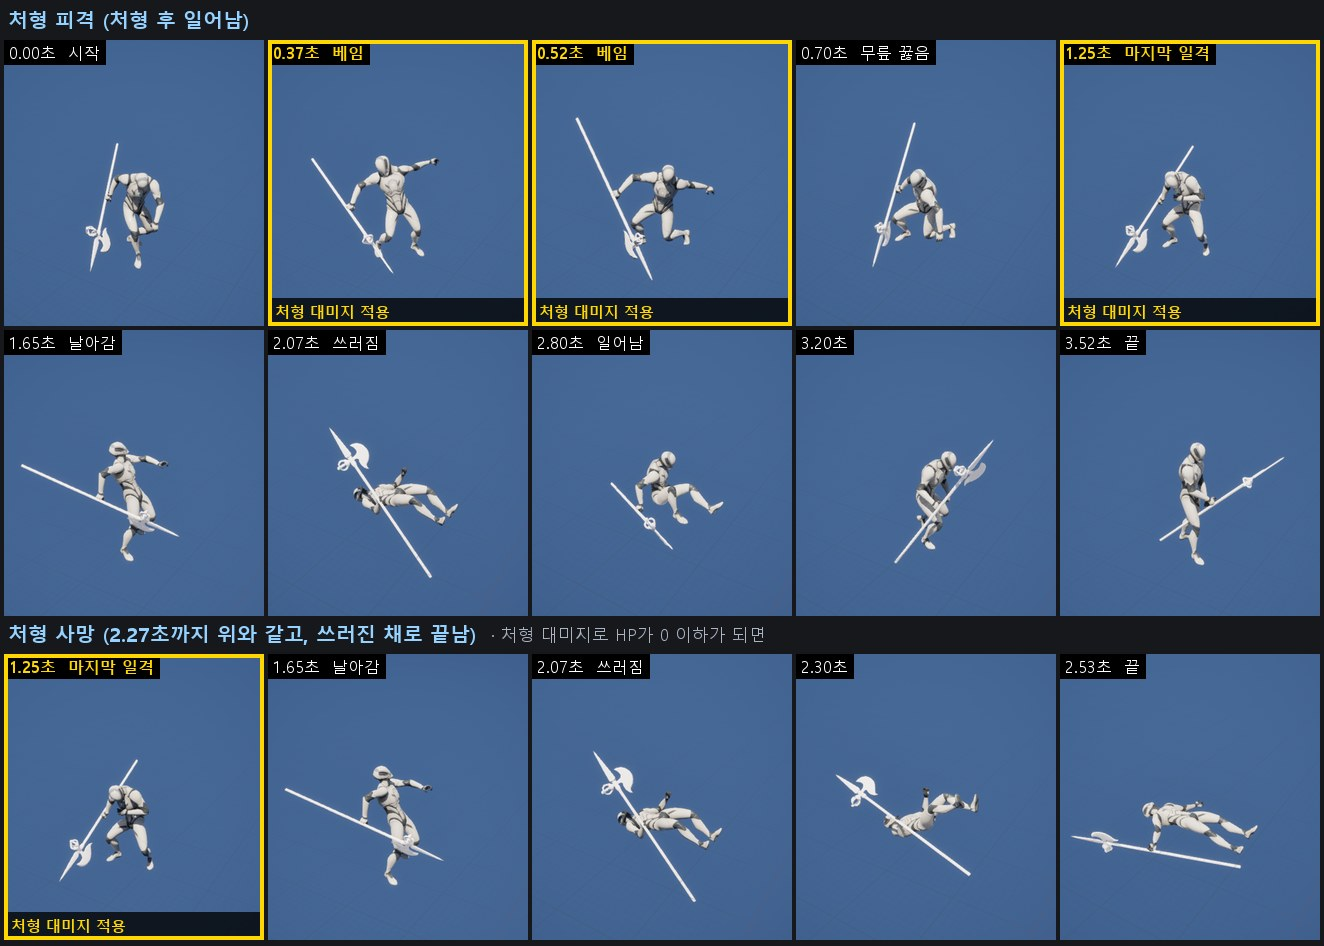
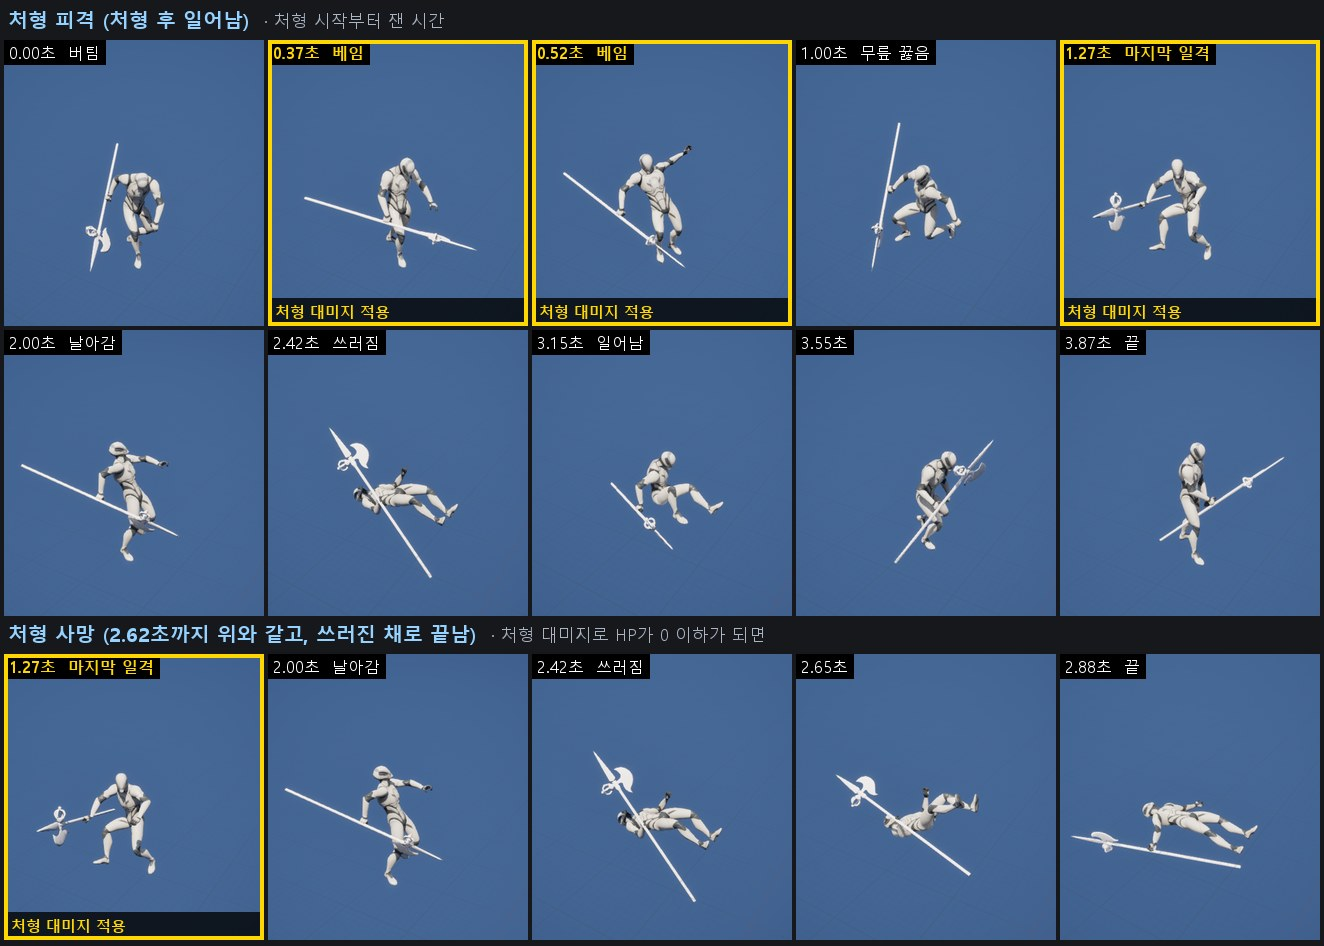
폴리싱 26: 처형 피격을 첫 베기에 맞춰 프레임 단위로 동기화 (플레이어 사양 '처형', 보스 모션 처형 피격 그림)
- 기획서
  - 처형 피격 모션(Samurai Executed)은 처형 모션의 첫 베기(0.35초)에 맞는 순간부터 시작하도록
    만들어진 짝 모션입니다. 처형과 동시에 재생하면 보스가 0.35초 일찍 반응합니다(맞기 전에
    물러나고, 칼이 꽂혀 있는 동안 날아감).
  - 플레이어 사양 '처형': 플레이어는 첫 베기 전까지 보스 정면에 붙고, 보스는 그로기 자세로
    버티다가 첫 베기를 맞는 순간부터 처형 피격 모션을 재생합니다.
  - 보스 모션 처형 피격 그림: 처형 시작부터 잰 시간으로 칸을 다시 골라 만들었습니다.
  - 애니메이션 조사: 두 모션의 시간 차이(0.35초), 맞물리는 순간(첫 베기, 발차기, 찌르기,
    칼 뽑기), 배치(원점 간격 약 1.1m)를 적고, 할버드 조사의 처형 피격·처형 사망 시각을 처형
    피격 기준으로 고쳤습니다.
- 구현
  - AM_Boss_Executed·AM_Boss_ExecutedDeath: 앞에 첫 베기 시각(0.35초)만큼 첫 프레임에 머무는
    구간을 두고, 그로기 모션에서 그 시간 동안 블렌드해 들어갑니다. 두 몽타주가 처형을 시작한
    프레임에 함께 시작하므로 재생 위치가 늘 같습니다.
  - AM_Player_Execute: Motion Warping 구간을 0 ~ 0.25초에서 첫 베기까지(0 ~ 0.35초)로 늘렸습니다.
  - DA_Player.ExecutionDistance: 164 → 70cm (첫 베기 순간 두 캡슐 중심 사이, 두 모션의 원래
    배치에서 잼).
  - 코드는 주석만 고쳤습니다. 구현 계획서의 '처형' 결정, 데이터 위치표, 확인 기록, 위험 요소를
    고쳤습니다.
- PIE 확인(정면 2.5m, 측면 60° 2.9m, 0.75m, 평타 직후): 두 몽타주 재생 위치 차이 0, 첫 베기 때
  간격 70cm·마주 봄. 첫 베기의 칼과 몸통 뼈대 사이 21.5 → 6.3cm, 찌른 채 버티는 동안
  (1.30 ~ 1.92초) 평균 45 → 4.4cm, 최대 120 → 11.5cm. 처형 사망(첫 베기, 마지막 일격)은 같은
  재생 위치에서 처형 사망 모션으로 이어집니다.

diff --git a/Source/Ag/AbilitySystem/Abilities/AgAbility_Execution.h b/Source/Ag/AbilitySystem/Abilities/AgAbility_Execution.h
@@ -11,10 +11,11 @@ class AAgPlayerCharacter;
 
 /**
  * 처형 (플레이어 사양 '처형'): a finishing move on a groggy boss within the 처형 타겟팅 범위, once per groggy.
- * The boss turns to the player and plays its 처형 피격 motion while the player closes in to the boss's front with
- * Motion Warping. The player is invincible until the execution ends or is cancelled. Each strike of the motion (the two
- * slashes and the final blow, one Execution hit each) applies its damage without hitstop, and the recovery (후딜) starts
- * after the final blow.
+ * The boss turns to the player and starts its 처형 피격 montage in the same frame as the execution montage; that montage
+ * waits on its first frame until the first slash, so the two motions stay in step frame by frame. By the first slash the
+ * player closes in to the boss's front with Motion Warping. The player is invincible until the execution ends or is
+ * cancelled. Each strike of the motion (the two slashes and the final blow, one Execution hit each) applies its damage
+ * without hitstop, and the recovery (후딜) starts after the final blow.
  */
 UCLASS()
 class UAgAbility_Execution : public UAgGameplayAbility

diff --git a/Source/Ag/AbilitySystem/Abilities/AgAbility_Execution.cpp b/Source/Ag/AbilitySystem/Abilities/AgAbility_Execution.cpp
@@ -61,14 +61,15 @@ void UAgAbility_Execution::ActivateAbility(const FGameplayAbilitySpecHandle Hand
 	bInvincible = true;
 	GetAbilitySystemComponentFromActorInfo()->AddLooseGameplayTag(AgGameplayTags::State_Invincible);
 
-	// The boss turns to the player and plays its 처형 피격 motion.
+	// The boss turns to the player and starts its 처형 피격 montage in this same frame, so both montages share one timeline.
 	FGameplayEventData Payload;
 	Payload.EventTag = AgGameplayTags::Event_Executed;
 	Payload.Instigator = Player;
 	Payload.Target = Boss;
 	UAbilitySystemBlueprintLibrary::SendGameplayEventToActor(Boss, AgGameplayTags::Event_Executed, Payload);
 
-	// The player moves to the boss's front, to the gap where the two motions line up. No stop distance applies.
+	// By the first slash (the end of the warp window) the player stands at the boss's front, at the gap where the two
+	// motions line up. No stop distance applies.
 	Player->StartApproach(Boss, Data->ExecutionDistance, 0.f, 0.f, /*bFaceTarget*/ true, /*bExactGap*/ true);
 
 	UAbilityTask_WaitGameplayEvent* StrikeTask = UAbilityTask_WaitGameplayEvent::WaitGameplayEvent(this, AgGameplayTags::Event_ExecutionBlow);

diff --git a/Source/Ag/Data/AgCharacterData.h b/Source/Ag/Data/AgCharacterData.h
@@ -263,8 +263,8 @@ public:
 	FAgPlayerAttack Execution;
 
 	/**
-	 * Gap (capsule centers) the player closes to in front of the boss so the two execution motions line up.
-	 * The spec gives no number; set by eye in the editor.
+	 * Gap (capsule centers) the player closes to in front of the boss by the execution's first slash, where the two
+	 * execution motions line up. The spec gives no number; measured from the two motions' authored placement.
 	 */
 	UPROPERTY(EditDefaultsOnly, Category = "Execution", meta = (Units = "cm", ClampMin = 0))
 	float ExecutionDistance = 0.f;
@@ -524,7 +524,10 @@ public:
 	UPROPERTY(EditDefaultsOnly, Category = "Assets|Montages")
 	TObjectPtr<UAnimMontage> GroggyMontage;
 
-	/** 처형 피격: the motion paired with the player's execution; the boss stands up at its end. */
+	/**
+	 * 처형 피격: the motion paired with the player's execution; the boss stands up at its end. It waits on its first frame
+	 * until the execution's first slash, so it starts in the same frame as the execution montage and stays in step.
+	 */
 	UPROPERTY(EditDefaultsOnly, Category = "Assets|Montages")
 	TObjectPtr<UAnimMontage> ExecutedMontage;
 

diff --git a/Docs/Program/마일스톤1 구현 계획.md b/Docs/Program/마일스톤1 구현 계획.md
@@ -68,7 +68,7 @@
 | 모션을 따르는 구간 | 판정 구간(몇 번째 타인지 포함), 처형 타격(베기 2번, 마지막 일격), 다운 무적 시작, A3 돌진 시작·자세 유지, A6 검기 발사는 몽타주 노티파이로 표시합니다. 판정 구간 외의 시점은 게임플레이 이벤트를 보내는 노티파이 하나로 표시하고, 이벤트 태그로 구분합니다. 연속 공격의 후딜 시작은 마지막 판정 구간의 끝으로 정합니다. | 시점마다 노티파이 클래스를 만들지 않고, 어빌리티가 이벤트를 기다립니다. |
 | 기획서에 초로 적힌 구간 | 회피 무적·극한 회피 구간·후딜 시작, 붉은 섬광, 예고 섬광, 회전 정지 같은 수치는 캐릭터 데이터에 두고, 코드가 몽타주 재생 위치로 판정합니다. 붉은 섬광, 예고 섬광, 회전 정지는 판정 구간 노티파이 위치(A6은 검기 발사 노티파이, A4 예고 섬광은 체공 시간)에서 거꾸로 계산합니다. 패리 구간, 회피 반격 기회, 쿨다운, 그로기 지속 시간처럼 히트스톱 중에도 흐르는 시간은 타이머로 셉니다. | 히트스톱으로 몽타주가 멈추면 구간도 함께 멈추고, 보스의 재생 속도 배율도 자동으로 반영됩니다. |
 | 공격 보정 | Motion Warping을 씁니다. 타겟팅 범위 안의 보스를 TargetingSystem으로 찾아, 플레이어 사양 '공격 중 이동'의 접근 목표를 선딜 동안 매 프레임 갱신하고 판정 구간 시작에 고정합니다. | |
-| 처형 | Motion Warping으로 보스 정면에 붙습니다. 두 모션이 맞물리는 간격은 두 모션의 원래 배치를 모션 데이터에서 재어 데이터에 둡니다. 처형 피격 중에는 보스 캡슐이 플레이어를 막지 않습니다. | 순간이동하지 않습니다. 두 모션은 캡슐 반지름보다 가깝게 붙습니다. |
+| 처형 | 처형 피격·처형 사망 몽타주는 처형 몽타주의 첫 베기 시각만큼 첫 프레임에 머문 뒤 모션을 시작하고, 그로기 모션에서 이 시간 동안 블렌드해 들어갑니다. 보스와 플레이어의 몽타주는 처형을 시작한 프레임에 함께 시작합니다. 플레이어는 첫 베기까지 Motion Warping으로 보스 정면, 두 모션이 맞물리는 간격에 붙습니다. 머무는 시간과 간격은 두 모션의 원래 배치를 모션 데이터에서 재어 정합니다(Samurai 애니메이션 조사 '처형'). 처형 피격 중에는 보스 캡슐이 플레이어를 막지 않습니다. | 처형 피격 모션은 첫 베기를 맞는 순간부터 시작하도록 만들어져 있습니다. 두 몽타주가 같은 프레임에 시작해 재생 위치가 늘 같으므로, 프레임 단위로 맞물립니다. 순간이동하지 않습니다. 두 모션은 캡슐 반지름보다 가깝게 붙습니다. |
 | 정지 간격 | 대상과의 간격이 정지 간격(플레이어 사양 '공격 중 이동', 보스 사양 '이동')이 되면 루트 모션의 전진량을 C++에서 잘라냅니다. | |
 | 보스 A1·A5 1타 접근 | 보스 사양 '이동'의 추가 접근을 Motion Warping으로 처리합니다. | |
 | A3 돌진 | 일정 속도의 루트 모션 소스로 움직입니다. 몽타주는 자세 유지 구간에서 멈춰 두고, 돌진하는 동안 캐릭터 간 충돌을 해제합니다. 돌진을 시작한 뒤로는 몽타주의 루트 모션을 무시하고, 벽에 막혔는지는 돌진 방향으로 실제 나아간 거리로 판단합니다(비스듬히 부딪혀 벽을 따라 미끄러져도 막힘). | 모션 자체의 이동만으로는 돌진 거리에 못 미칩니다. 몽타주가 루트 모션을 주는 동안에는 캐릭터 무브먼트가 루트 모션 소스를 쓰지 않고, 돌진 뒤 창을 거두는 동안 더 나아가지도 않아야 합니다. |
@@ -326,7 +326,9 @@
 | 할버드 애니메이션 조사 '보스 모션': 그로기, 처형 피격, 처형 사망 | `DA_Boss` (`AM_Boss_Groggy`, `AM_Boss_Executed`, `AM_Boss_ExecutedDeath`) | `GroggyMontage`, `ExecutedMontage`, `ExecutedDeathMontage` |
 | Samurai 애니메이션 조사 '가드·패리', '처형': 패리 모션의 후딜 시작, 처형 타격(베기 2번, 마지막 일격) | `AM_Player_Parry`, `AM_Player_Execute` | 게임플레이 이벤트 노티파이 |
 | 구현 값(기획서에 수치 없음): 리젠을 나눠 적용하는 간격 | `DA_CombatRules` | `RegenTickInterval` |
-| 구현 값(기획서에 수치 없음): 처형 두 모션이 맞물리는 간격 | `DA_Player` | `ExecutionDistance` |
+| 구현 값(기획서에 수치 없음): 처형 두 모션이 맞물리는 간격 (첫 베기 순간 두 캡슐 중심 사이) | `DA_Player` | `ExecutionDistance` |
+| Samurai 애니메이션 조사 '처형': 처형 피격이 처형보다 늦게 시작하는 시간 (처형의 첫 베기 시각) | `AM_Boss_Executed`, `AM_Boss_ExecutedDeath` | 첫 구간(첫 프레임에 머무는 구간)의 길이, 블렌드 인 시간 |
+| 같은 시간: 처형에서 보스 정면에 붙는 구간 | `AM_Player_Execute` | Motion Warping 구간 노티파이 |
 | 보스 사양 '페이즈', '2페이즈 변화': 2페이즈 HP 구간, 패턴 진행 속도, MOV | `DA_Boss` | `Phase2HPRatio`, `Phase2PatternSpeed`, `Phase2MOVMultiplier` |
 | 보스 사양 '공격 속성과 예고': 붉은 섬광·예고 섬광이 켜지는 시점 | `DA_Boss` | `UnblockableFlashLead`, `ParryFlashLead` |
 | 마일스톤1 계획 '아트 리소스': 붉은 섬광 이펙트와 색 | `GC_UnblockableFlash` | `Effect`, `AttachSocket`, `Color` |
@@ -394,14 +396,14 @@
 | - | - | - |
 | 3 | 평타 1타가 정지 간격에서 맞는지 | 대기 중인 보스에게는 1 ~ 5타가 모두 맞습니다. 멀리서 다가가 정지 간격에서 멈춘 경우와 정지 간격 안쪽에서 바로 친 경우 모두 맞았습니다. 보스가 패턴(B1, A1)을 쓰는 중에는 보스 자세와 움직임에 따라 빗나가기도 했습니다(평타를 14초 동안 연타했을 때 1타와 5타는 모두 맞고, 2 ~ 4타는 19번 중 5번 빗나감). |
 | 4 | 스킬과 궁극기의 각 타가 정지 간격에서 맞는지 | 대기 중인 보스에게 스킬과 궁극기 1 ~ 4타가 모두 정지 간격에서 맞았습니다. 궁극기는 타겟팅 범위 끝 가까이(4.4m)에서 시작해도 정지 간격까지 다가가 4타가 모두 맞았습니다. |
-| 4 | 처형 두 모션의 정렬 | 처형 피격을 사무라이 짝 모션으로 바꾼 뒤, 두 모션의 원래 배치에서 간격을 재어 맞췄습니다. 두 번의 베기가 보스 상체에 닿고, 마지막 일격의 칼이 무릎 꿇은 보스를 꿰뚫은 채 보스가 밀려날 때까지 유지됩니다. 처형으로 사망하면 처형 사망 모션으로 자세가 튀지 않고 이어진 뒤 래그돌이 됩니다. |
+| 4 | 처형 두 모션의 정렬 | 처형 피격이 처형의 첫 베기에 맞춰 시작하도록 고친 뒤(폴리싱 26), 두 몽타주의 재생 위치가 매 프레임 같았습니다. 보스 정면 2.5m, 측면 60° 2.9m, 0.75m 거리, 평타 직후 어디서 시작해도 첫 베기 순간 두 캡슐 중심 사이가 70cm이고 서로 마주 봅니다. 두 번의 베기와 발차기가 보스에게 닿고, 마지막 일격의 칼은 칼을 뽑아 보스가 날아갈 때까지 몸에 꽂혀 있습니다. 처형으로 사망하면 첫 베기든 마지막 일격이든 처형 사망 모션으로 자세가 튀지 않고 이어진 뒤 래그돌이 됩니다. |
 
 ## 위험 요소
 
 | 위험 | 영향 | 대응 |
 | - | - | - |
 | 에디터 작업량 | 몽타주·노티파이 40여 개, 블렌드 스페이스, 위젯을 에디터에서 만들어야 하고, MCP 연결이 끊기면 작업이 멈춥니다. | 반복 작업은 파이썬 스크립트로 한꺼번에 처리하고, 단계 0에서 MCP 연결부터 확인합니다. |
-| 처형 두 모션의 정렬 | 두 모션이 맞물리는 간격이 조사되지 않아, 칼이 빗나가 보일 수 있습니다. | 두 모션의 원래 배치를 모션 데이터에서 재어 간격을 데이터에 두었습니다. ('확인 기록') |
+| 처형 두 모션의 정렬 | 두 모션이 맞물리는 시간 차이와 간격이 조사되지 않아, 칼이 빗나가거나 보스가 맞기 전에 반응해 보일 수 있습니다. | 두 모션의 시간 차이와 원래 배치를 모션 데이터에서 재어 몽타주와 데이터에 두었습니다. ('확인 기록') |
 | 공격 보정의 순간이동감 | 선딜이 짧은 공격(회피 반격)은 Motion Warping으로 거의 순간이동처럼 다가갑니다. | 기획서의 '순식간에 다가가' 의도와 맞는지 QA에서 판단합니다. |
 | 메시 바디 판정 | 메시 바디는 캡슐보다 가늘어서, 정지 간격에서 평타 1타, 스킬, 궁극기 1타가 닿지 않을 수 있습니다. | 단계 3·4에서 맞는지 확인해 '확인 기록'에 적고, 필요하면 QA에서 정지 간격을 고칩니다. |
 | CommonUI 입력 설정 | 마우스·키보드 전환과 포커스가 기획서대로 동작하지 않을 수 있습니다. | 단계 1에서 타이틀 화면으로 먼저 확인합니다. |

diff --git a/Docs/Art/할버드 애니메이션 조사.md b/Docs/Art/할버드 애니메이션 조사.md
@@ -107,7 +107,7 @@
 | 버프 | 워리어 `Buff`, 사무라이 `Buff`·`Buff2` (0.65초, 제자리) | |
 | 기상 | 워리어·사무라이 `Getup1_Idle1`·`Getup2_Idle1` (0.65초) | 할버드는 `Hit_knockdown` 하나에 넘어짐과 기상이 함께 들어 있습니다. |
 | 처형 | 사무라이 `Execute`(2.70초) | 사무라이 `Executed`·`Executed_Death`(아래 '처형 피격')와 짝입니다. 할버드 `Executed_Samurai`도 이 모션에 당하는 모션이지만, 마지막 일격 때 바닥에 누워 있어 찌르기가 몸에 닿지 않습니다. 두 캐릭터의 크기가 다르면 간격과 맞닿는 위치가 어긋납니다. |
-| 처형 피격 | 사무라이 `Executed`(3.52초), `Executed_Death`(2.53초) | 사무라이 `Execute`에 당하는 모션입니다. 0.35·0.52초 베기에 물러나며 무릎 꿇고, 1.25초 마지막 일격에 칼이 꽂힌 채 버티다가 1.6초에 뒤로 날아가 쓰러집니다. `Executed`는 끝에 일어나고, `Executed_Death`는 쓰러진 채 끝납니다. |
+| 처형 피격 | 사무라이 `Executed`(3.52초), `Executed_Death`(2.53초) | 사무라이 `Execute`에 당하는 모션으로, `Execute`의 첫 베기에 맞는 순간부터 시작합니다. ([Samurai 애니메이션 조사](<Samurai 애니메이션 조사.md>)의 '처형' 참고) 시작하자마자 베여 물러나고, 0.46초에 발차기를 맞아 무릎 꿇고, 0.91초 마지막 일격에 칼이 꽂힌 채 버티다가 1.6초에 칼이 뽑히며 뒤로 날아가 쓰러집니다. `Executed`는 끝에 일어나고, `Executed_Death`는 쓰러진 채 끝납니다. |
 
 ## 무기 부착
 
@@ -134,7 +134,7 @@
 | 그로기 | `Collide_To_Stun` → `Stun`(반복) → `Stun_To_Idle1` | 선 채로 비틀거리는 자세입니다. 다른 팩에서 빌려 옵니다. ('다른 팩에서 빌릴 수 있는 모션' 참고) |
 | 페이즈 전환 포효 | `Buff` | 다른 팩에서 빌려 옵니다. ('다른 팩에서 빌릴 수 있는 모션' 참고) |
 | 처형 피격 | 사무라이 `Executed` | 사무라이 팩 `Execute`와 짝입니다. 다른 팩에서 빌려 옵니다. ('다른 팩에서 빌릴 수 있는 모션' 참고) |
-| 처형 사망 | 사무라이 `Executed_Death` | `Executed`와 2.27초까지 같은 모션이고, 일어나지 않고 쓰러진 채로 끝납니다. 처형의 마지막 일격(약 1.25초)보다 뒤에서 갈라지므로, 사망한 순간 이 모션으로 바꿔 이어도 자세가 튀지 않습니다. |
+| 처형 사망 | 사무라이 `Executed_Death` | `Executed`와 2.27초까지 같은 모션이고, 일어나지 않고 쓰러진 채로 끝납니다. 처형의 마지막 일격(이 모션의 약 0.91초)보다 뒤에서 갈라지므로, 사망한 순간 이 모션으로 바꿔 이어도 자세가 튀지 않습니다. |
 | 사망 | 없음 | 래그돌로 쓰러집니다. 처형으로 사망할 때만 위의 `Executed_Death`를 씁니다. ([전투 시스템](<../Design/전투 시스템.md>)의 사망 처리) |
 
 ## 조사 방법

diff --git a/Docs/Art/Samurai 애니메이션 조사.md b/Docs/Art/Samurai 애니메이션 조사.md
@@ -108,7 +108,7 @@
 |---|---|---|---|
 | `Execute` | 2.70 | 최대 2.0m 전진, 0.8m 지점에서 끝남 | 0.35·0.52초 베기 → 1.25초 마지막 일격 → 2.0초 마무리 동작 → `Idle1` |
 | `Execute_B` / `Execute_B2` | 1.47 | 최대 0.9m / 0.3m 전진 후 제자리로 돌아옴 | 0.25 ~ 0.73초 동안 찌른 채 유지하는 찌르기 처형 |
-| `Executed` | 3.52 | 뒤로 2.5m | Samurai가 `Execute`에 당함 |
+| `Executed` | 3.52 | 뒤로 2.5m | Samurai가 `Execute`에 당함. `Execute`의 첫 베기에 맞는 순간부터 시작 |
 | `Executed_Warrior` | 3.52 | 뒤로 2.4m | Samurai가 Warrior의 처형에 당함 |
 | `Executed2` | 1.62 | 뒤로 1.7m | |
 | `Executed_B` / `Executed_B_2` | 1.90 | 뒤로 0.8m / 앞으로 0.9m | `Execute_B`의 짝 |
@@ -117,6 +117,7 @@
 - 다른 팩에도 `Execute`에 당하는 모션이 있으며, 시작 자세가 Samurai의 `Executed`와 같습니다. Halberd 팩의 `Executed_Samurai`는 [할버드 애니메이션 조사](<할버드 애니메이션 조사.md>)를 따릅니다. Dual Wield 팩에는 `Executed_Samurai`(2.57초, 뒤로 4.6m)와 `Executed_Death_Samurai`(1.82초, 뒤로 4.1m)가 있습니다.
 - `Execute_B`의 짝(`Executed_B`, `Executed_B_2`)은 Samurai와 Warrior 팩에만 있습니다.
 - `Execute`의 루트는 첫 프레임에 0.12m 뒤, 처형 피격 모션의 루트는 0.54m 뒤에서 시작합니다. 루트 모션을 켤 때 위치가 어긋나지 않게 설정해야 합니다.
+- `Executed`는 `Execute`보다 0.35초(첫 베기) 늦게 시작해야 짝이 맞습니다. 이렇게 이으면 `Executed`의 자세가 갑자기 바뀌는 네 순간(시작, 0.46, 0.91, 1.6초)이 `Execute`의 첫 베기(0.35초), 발차기(0.82초), 찌르기(1.26초), 칼을 뽑는 순간(1.95초)과 맞고, 칼은 1.27 ~ 1.93초 동안 몸에 꽂혀 있습니다. 두 모션의 원점을 약 1.1m 떨어뜨려 서로 마주 보게 놓으면 칼과 발이 몸에 닿고, 이때 첫 베기 순간 두 루트 사이 거리는 약 0.7m입니다.
 
 ## 회피
 

diff --git a/Docs/Design/플레이어 사양.md b/Docs/Design/플레이어 사양.md
@@ -361,7 +361,7 @@ R 키로 사용하는, UP를 모두 소모하는 강력한 공격입니다.
   2. 보스가 처형 타겟팅 범위 안에 있습니다. 이 범위는 플레이어와 보스의 캡슐 중심 사이 수평 거리 3m 이내입니다.
   3. 플레이어가 처형을 입력할 수 있는 상태입니다. ([입력](<입력.md>)에서 처형 입력이 허용됨)
 - 발동 조건을 만족할 때 처형 키를 누르면 처형을 사용합니다. 조건을 만족하지 않으면 처형 키를 눌러도 아무 일도 일어나지 않습니다. 처형 안내 표시는 [전투 HUD](<전투 HUD.md>)를 따릅니다.
-- 처형을 시작하면 보스가 플레이어를 바라보도록 돌립니다. 플레이어는 처형 모션을 재생하며 보스 정면으로 다가가 붙고, 보스는 처형 피격 모션을 재생합니다.
+- 처형을 시작하면 보스가 플레이어를 바라보도록 돌립니다. 플레이어는 처형 모션을 재생하며 첫 베기 전까지 보스 정면으로 다가가 붙습니다. 보스는 그로기 자세로 버티다가 첫 베기를 맞는 순간부터 처형 피격 모션을 재생합니다.
 
 | 대미지 배율 | PP 배율 | 피격 반응 |
 | - | - | - |
